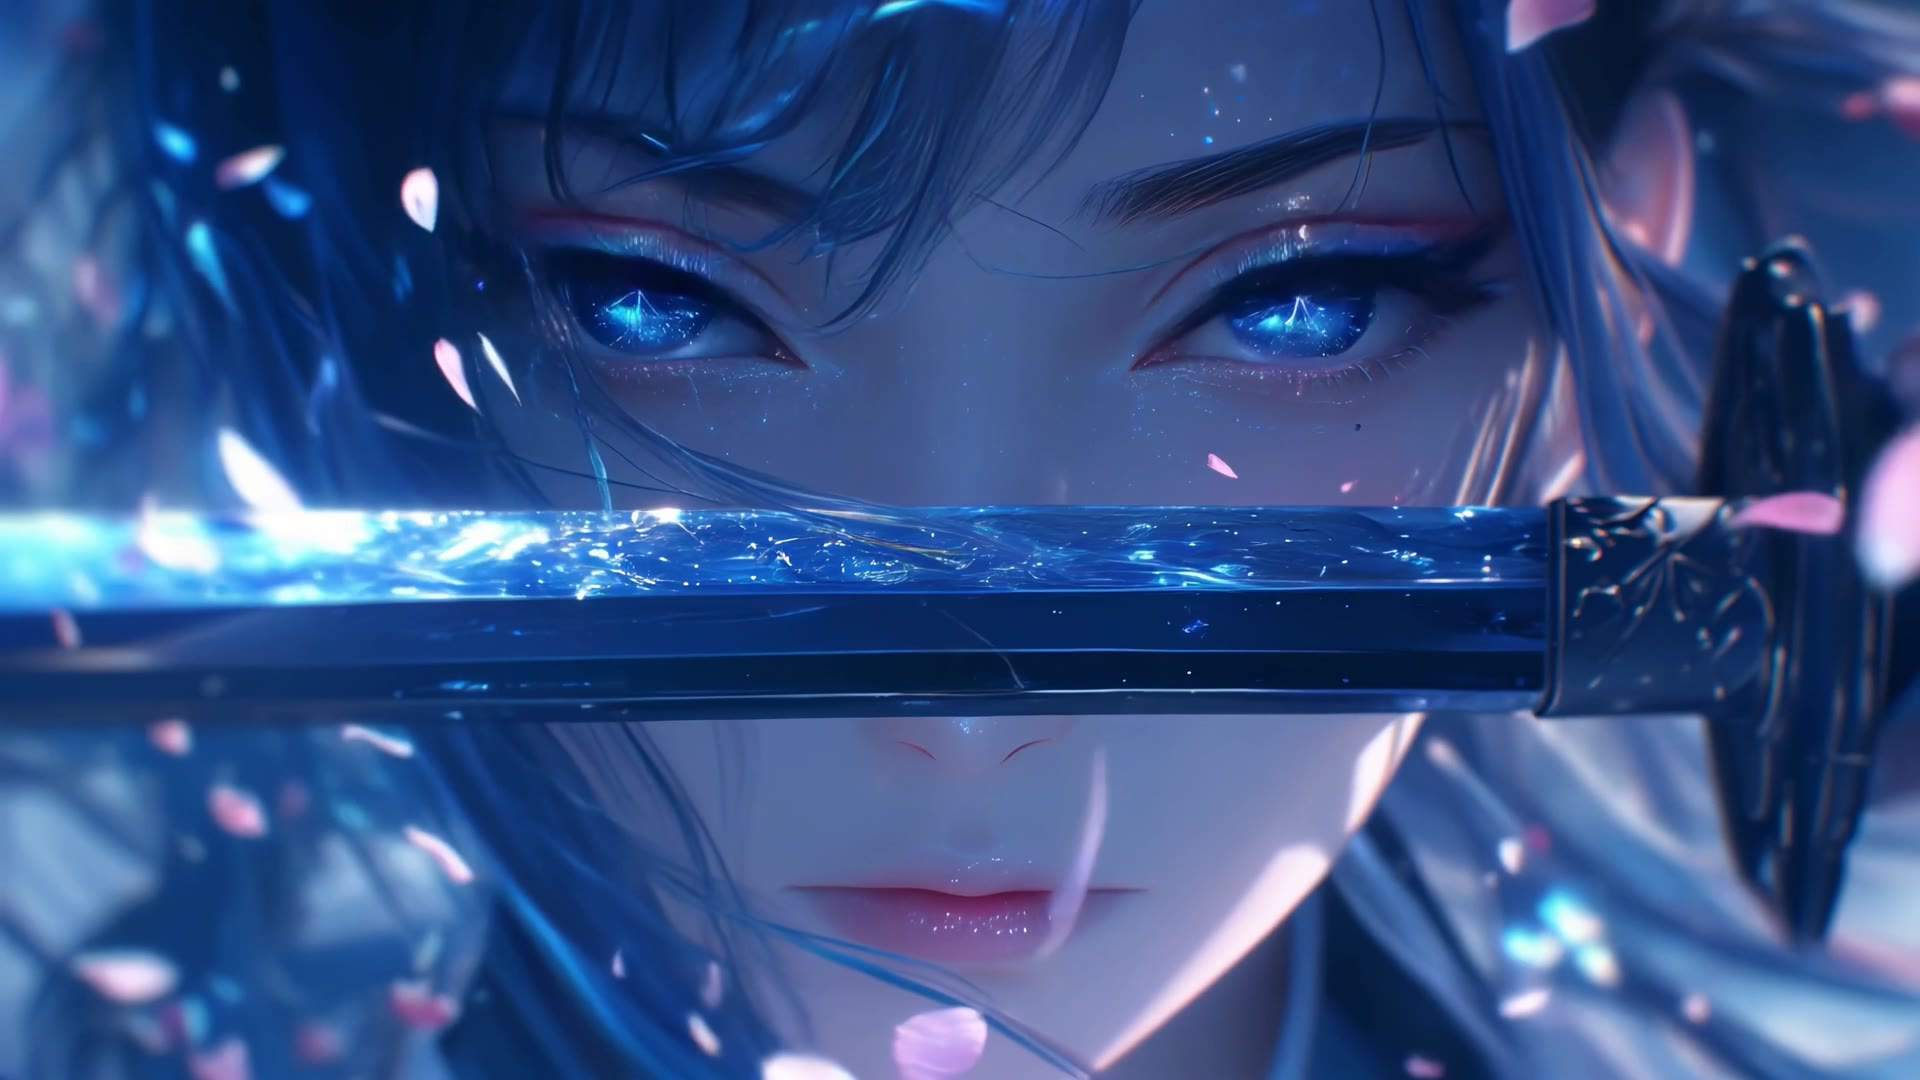
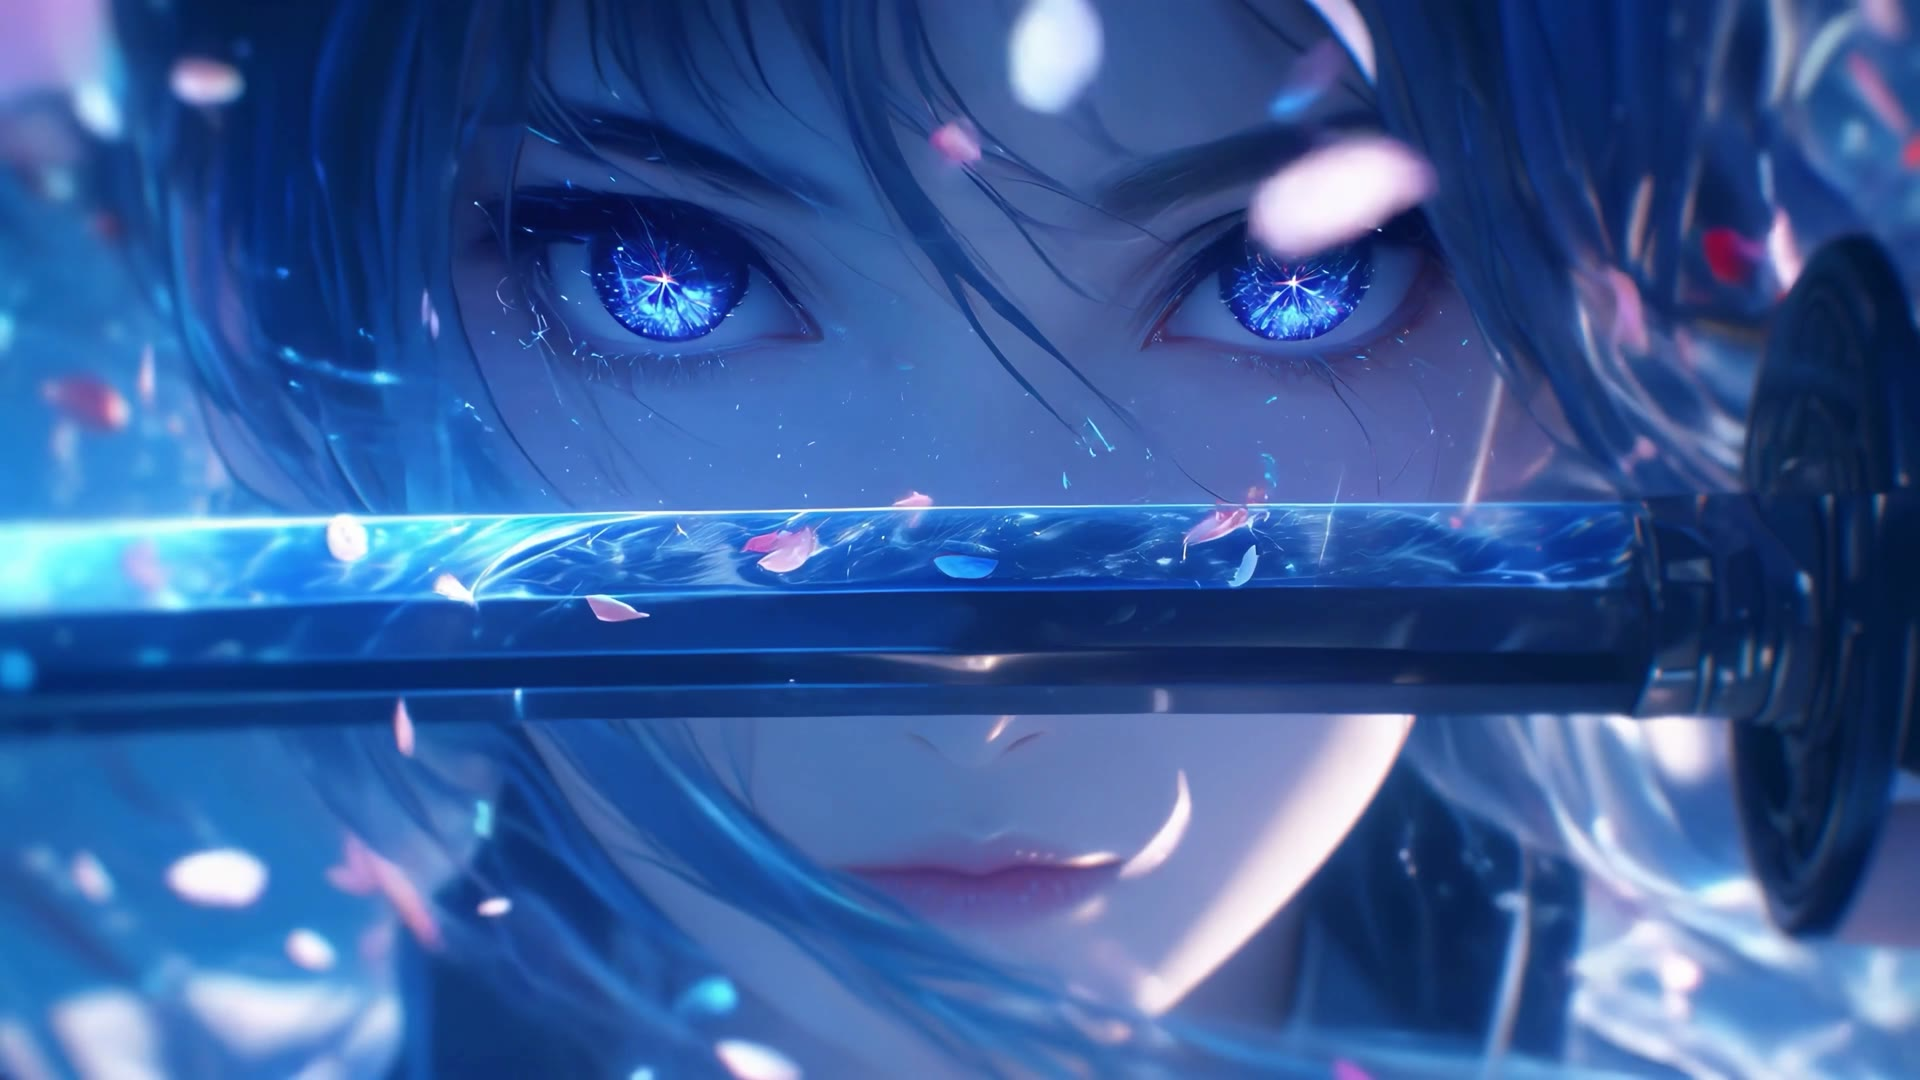
Videos: re-encode corrupted feihua-rumeng and beyoud mp4 (two ffmpeg runs wrote the same file), keep full 10.2s clip, new poster from 9.83s; script now reports decode errors

diff --git a/music.html b/music.html
@@ -238,7 +238,7 @@
 		var albumData={
 			
 			zidingyi:{title:"自定义",singer:"许嵩",date:"2009/01/10",cover:"img/自定义cover.png",url:"./Albums/自定义",intro:"许嵩的第一张专辑，也是“许嵩现象”的起点：没有唱片公司宣传推广，一个人包办全部词曲、编曲、录音和混音，仅仅靠歌迷自发在网络上传播就扩散开来。冷色调的感情逻辑贯穿始终，复古与流行碰撞的旋律随处可见，《清明雨上》是江南韵味的小调，《城府》写离别写得哀婉，《有何不可》《多余的解释》《如果当时》则带着强烈的叙事感和自嘲意味。乐评人说，这张专辑每首歌都像一出悲喜剧，难以定义、难以归类，但有血有肉、惹人玩味。",tracks:["有何不可","多余的解释","清明雨上","认错","城府","内线","坏孩子","如果当时","星座书上"],
-			covers:{"有何不可":"Albums/自定义/img/有何不可cover.png","多余的解释":"Albums/自定义/img/多余的解释cover.png","清明雨上":"Albums/自定义/img/清明雨上cover.png","认错":"Albums/自定义/img/认错cover.png","城府":"Albums/自定义/img/城府cover.png","内线":"vid/feihua-rumeng.jpg?v=2","坏孩子":"Albums/自定义/img/坏孩子cover.png","如果当时":"Albums/自定义/img/如果当时cover.png"},
+			covers:{"有何不可":"Albums/自定义/img/有何不可cover.png","多余的解释":"Albums/自定义/img/多余的解释cover.png","清明雨上":"Albums/自定义/img/清明雨上cover.png","认错":"Albums/自定义/img/认错cover.png","城府":"Albums/自定义/img/城府cover.png","内线":"vid/feihua-rumeng.jpg?v=3","坏孩子":"Albums/自定义/img/坏孩子cover.png","如果当时":"Albums/自定义/img/如果当时cover.png"},
 			intros:{
 			"有何不可":"这张专辑里传唱度最高的一首。旋律几乎是顺口溜式的简单，「为你唱这首歌，没有什么风格」一句被无数人记住。写的是少年人那种没什么道理的喜欢——不必讲条件，也不必问结果。",
 			"多余的解释":"写感情里解释的无力。话越说越多，误会反而越结越紧，最后连解释本身都成了对方眼里的辩解。副歌的旋律线一路向下，情绪跟着一起沉。",

diff --git a/js/video-bg.js b/js/video-bg.js
@@ -34,14 +34,14 @@
         {src:"../../vid/anime-girl-night.mp4", poster:"../../vid/anime-girl-night.jpg", cover:"../../vid/anime-girl-night-disc.jpg"},
         {src:"../../vid/moon-touch.mp4", poster:"../../vid/moon-touch.jpg", cover:"../../vid/moon-touch-disc.jpg"},
         {src:"../../vid/endless-pain.mp4", poster:"../../vid/endless-pain.jpg", cover:"../../vid/endless-pain-disc.jpg"},
-        {src:"../../vid/beyoud.mp4", poster:"../../vid/beyoud.jpg", cover:"../../vid/beyoud-disc.jpg"},
+        {src:"../../vid/beyoud.mp4?v=2", poster:"../../vid/beyoud.jpg", cover:"../../vid/beyoud-disc.jpg"},
         {src:"../../vid/a-curse-paper-lily.mp4", poster:"../../vid/a-curse-paper-lily.jpg", cover:"../../vid/a-curse-paper-lily-disc.jpg"}
     ];
 
     /* ---- 专属背景：按歌名锁定视频，进到这首歌必出，不参与上面的随机池 ----
        键是播放页 data 里的 song 字段（要与歌名完全一致） */
     var videoBgBySong={
-        "内线": {src:"../../vid/feihua-rumeng.mp4", poster:"../../vid/feihua-rumeng.jpg?v=2", cover:"../../vid/feihua-rumeng-disc.jpg?v=2"}
+        "内线": {src:"../../vid/feihua-rumeng.mp4?v=2", poster:"../../vid/feihua-rumeng.jpg?v=3", cover:"../../vid/feihua-rumeng-disc.jpg?v=3"}
     };
 
     /* 专属视频自动从随机池剔除（同 src 视为同一条）：

diff --git a/Albums/TreasureHunting/index.html b/Albums/TreasureHunting/index.html
@@ -200,7 +200,7 @@
 		<audio  src="mp3/音阙诗听,昆玉 - 我已经到了幻想尽头.m4a"></audio>
 	</div>
 <script type="text/javascript" src="js/move.js"></script>
-<script type="text/javascript" src="../../js/video-bg.js?v=20261102d"></script>
+<script type="text/javascript" src="../../js/video-bg.js?v=20261102e"></script>
 <script type="text/javascript" src="js/music.js?v=42"></script>
 </body>
 </html>

diff --git a/Albums/YouthEveningPaper/index.html b/Albums/YouthEveningPaper/index.html
@@ -201,7 +201,7 @@
 		<audio  src="mp3/音阙诗听,昆玉 - 我已经到了幻想尽头.m4a"></audio>
 	</div>
 <script type="text/javascript" src="js/move.js"></script>
-<script type="text/javascript" src="../../js/video-bg.js?v=20261102d"></script>
+<script type="text/javascript" src="../../js/video-bg.js?v=20261102e"></script>
 <script type="text/javascript" src="js/music.js?v=42"></script>
 </body>
 </html>

diff --git a/Albums/不如吃茶去/index.html b/Albums/不如吃茶去/index.html
@@ -198,7 +198,7 @@
 		<audio  src="mp3/音阙诗听,昆玉 - 我已经到了幻想尽头.m4a"></audio>
 	</div>
 <script type="text/javascript" src="js/move.js"></script>
-<script type="text/javascript" src="../../js/video-bg.js?v=20261102d"></script>
+<script type="text/javascript" src="../../js/video-bg.js?v=20261102e"></script>
 <script type="text/javascript" src="js/music.js?v=42"></script>
 </body>
 </html>

diff --git a/Albums/寻雾启示/index.html b/Albums/寻雾启示/index.html
@@ -198,7 +198,7 @@
 		<audio  src="mp3/音阙诗听,昆玉 - 我已经到了幻想尽头.m4a"></audio>
 	</div>
 <script type="text/javascript" src="js/move.js"></script>
-<script type="text/javascript" src="../../js/video-bg.js?v=20261102d"></script>
+<script type="text/javascript" src="../../js/video-bg.js?v=20261102e"></script>
 <script type="text/javascript" src="js/music.js?v=42"></script>
 </body>
 </html>

diff --git a/Albums/梦游计/index.html b/Albums/梦游计/index.html
@@ -208,7 +208,7 @@
 		<audio  src="mp3/音阙诗听,昆玉 - 我已经到了幻想尽头.m4a"></audio>
 	</div>
 <script type="text/javascript" src="js/move.js"></script>
-<script type="text/javascript" src="../../js/video-bg.js?v=20261102d"></script>
+<script type="text/javascript" src="../../js/video-bg.js?v=20261102e"></script>
 <script type="text/javascript" src="js/music.js?v=42"></script>
 </body>
 </html>

diff --git a/Albums/自定义/index.html b/Albums/自定义/index.html
@@ -200,7 +200,7 @@
 		<audio  src="mp3/音阙诗听,昆玉 - 我已经到了幻想尽头.m4a"></audio>
 	</div>
 <script type="text/javascript" src="js/move.js"></script>
-<script type="text/javascript" src="../../js/video-bg.js?v=20261102d"></script>
+<script type="text/javascript" src="../../js/video-bg.js?v=20261102e"></script>
 <script type="text/javascript" src="js/music.js?v=42"></script>
 </body>
 </html>

diff --git a/Albums/苏格拉没有㡳/index.html b/Albums/苏格拉没有㡳/index.html
@@ -134,7 +134,7 @@
 		<audio  src="mp3/音阙诗听,昆玉 - 我已经到了幻想尽头.m4a"></audio>
 	</div>
 <script type="text/javascript" src="js/move.js"></script>
-<script type="text/javascript" src="../../js/video-bg.js?v=20261102d"></script>
+<script type="text/javascript" src="../../js/video-bg.js?v=20261102e"></script>
 <script type="text/javascript" src="js/music.js?v=42"></script>
 </body>
 </html>
